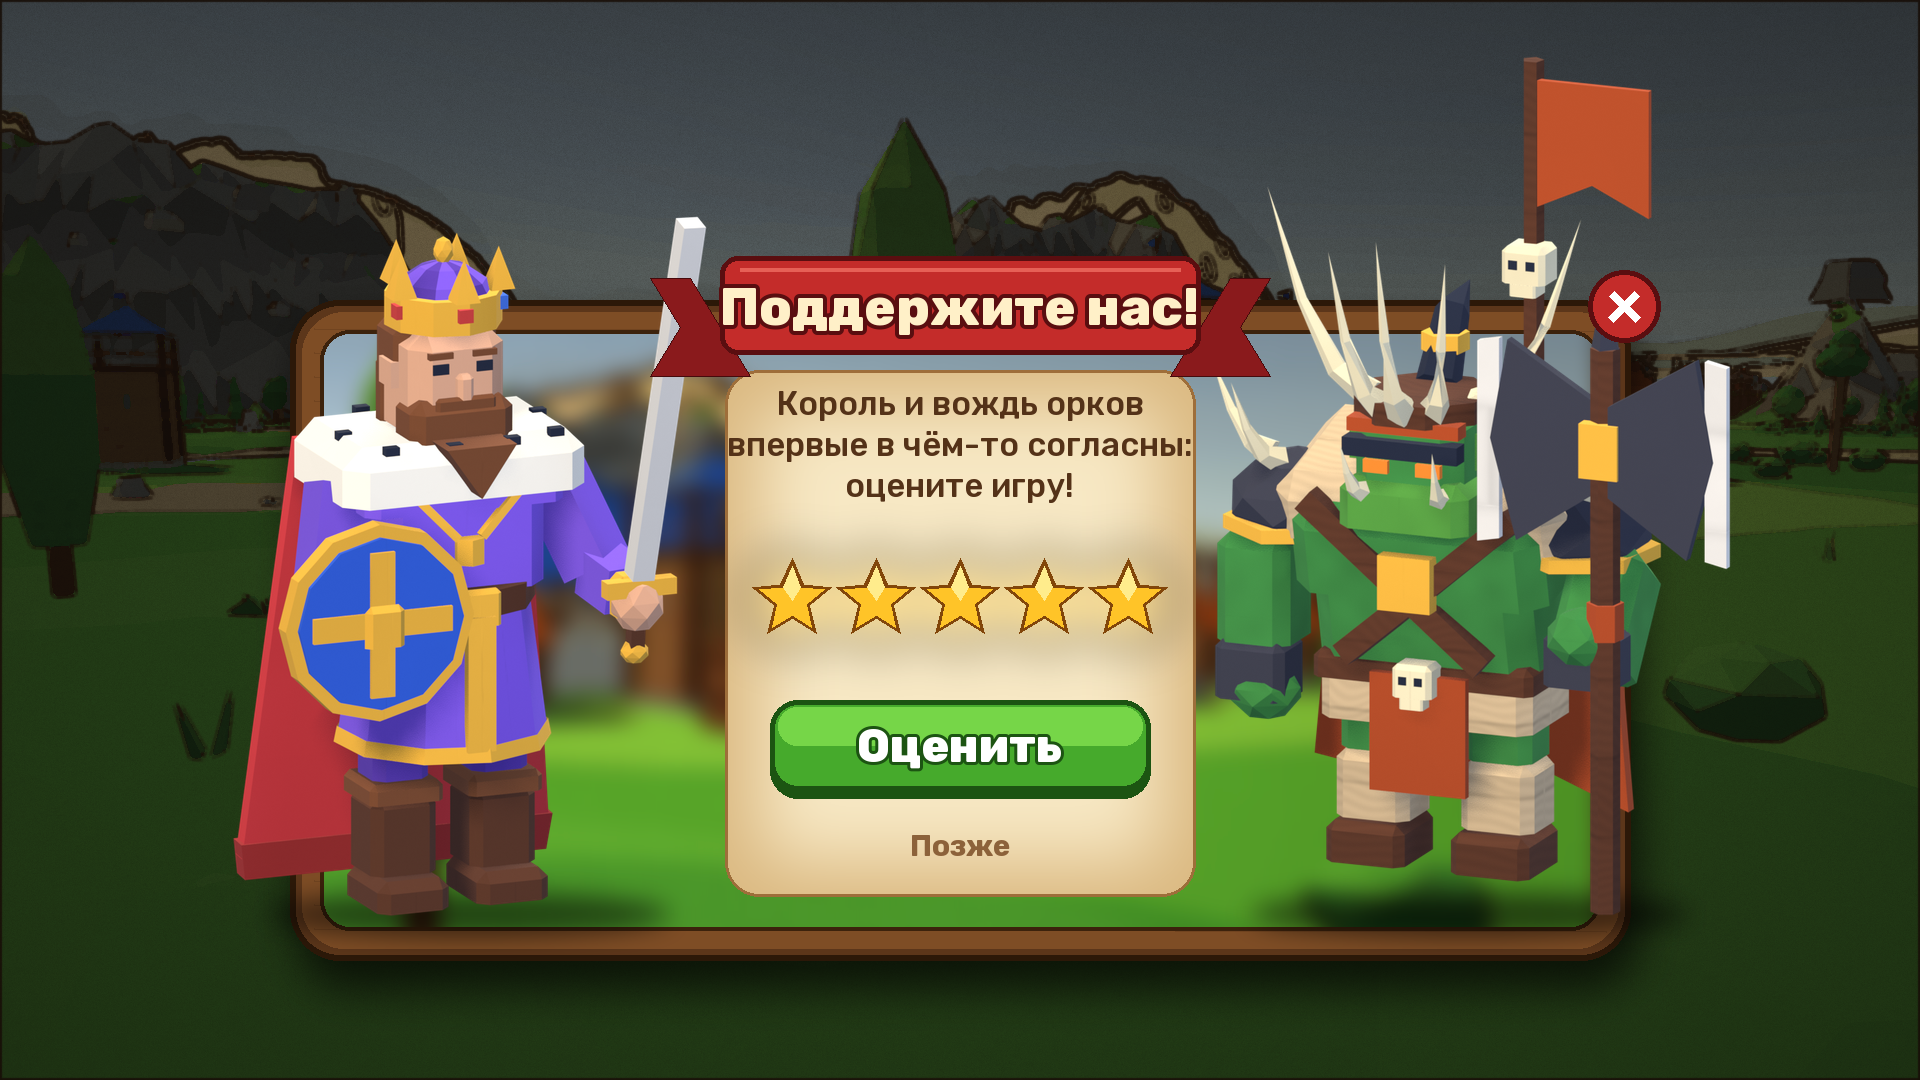
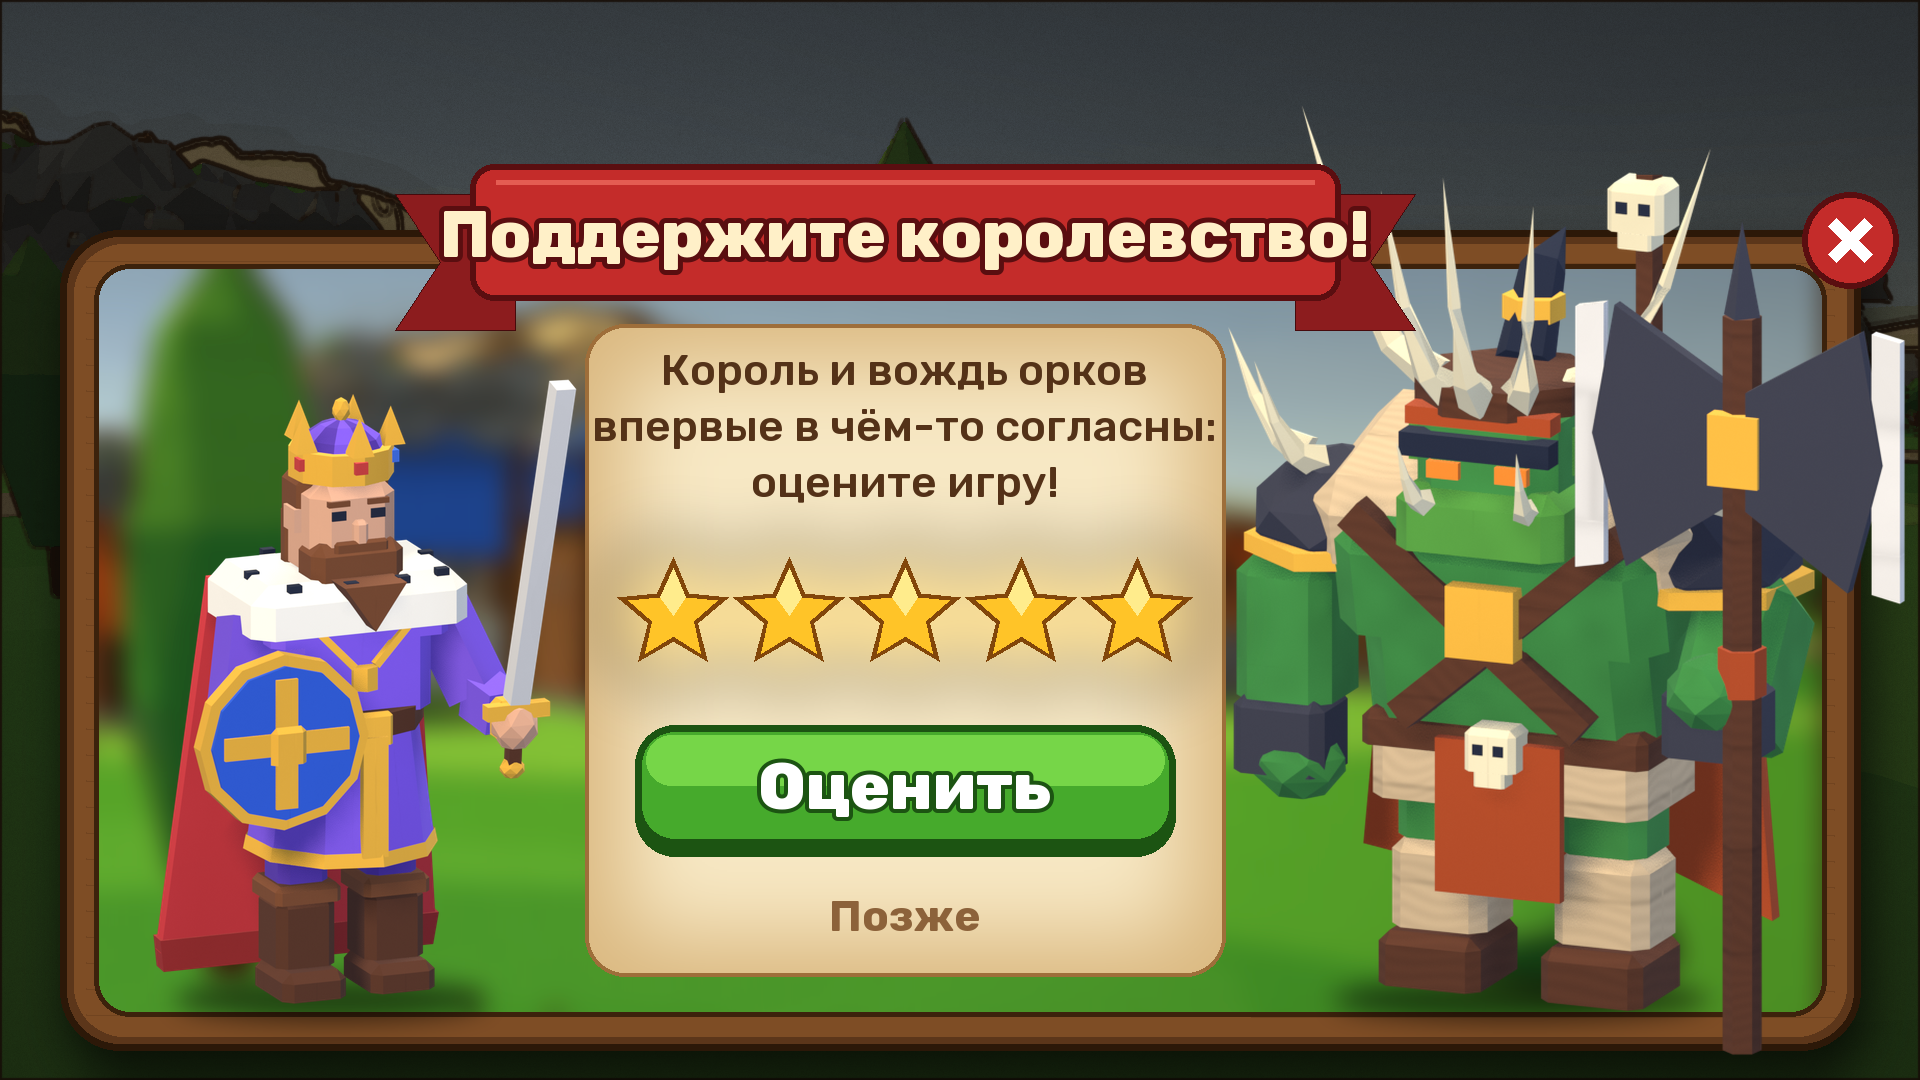
Rate-us window mock-up v3 (the user): 1.5x window, v1 ribbon, the orc a head taller by feet-to-head, four window backgrounds

diff --git a/Tools/store/rate_window_mockup.py b/Tools/store/rate_window_mockup.py
@@ -1,21 +1,23 @@
-"""Mock-up of the rate-us window (the user, 2026-11-10): a POPUP over whatever the game shows (not a
-screen of its own), the game's own King on the left and a big orc chief on the right inside the
-window, a blurred town as the window's picture, a parchment middle with stars and a Rate button.
-Args: a folder holding figure_king.png / figure_orc.png (render_icons_3d.py -- figure_king|figure_orc
-<abs path> 1200); writes RateWindow_Mockup.png there."""
+"""Mock-up of the rate-us window (the user, 2026-11-10): a POPUP over whatever the game shows, the
+game's own King on the left and the orc chief on the right -- a head taller than the king, measured
+feet-to-head (not by his flag or axe) -- a ribbon title over the top edge, a parchment column with
+stars and a Rate button. The window's picture behind the heroes is a choice:
+  town | autumn | sunburst | map
+Args: <folder with figure_king.png / figure_orc.png> <background> [out name]
+(figures: render_icons_3d.py -- figure_king|figure_orc <abs path> 1200)."""
 import math
 import sys
 
 from PIL import Image, ImageDraw, ImageEnhance, ImageFilter, ImageFont
 
-S = sys.argv[1]
+S, BG = sys.argv[1], sys.argv[2]
+OUT = sys.argv[3] if len(sys.argv) > 3 else 'RateWindow_Mockup.png'
 R = 'D:/Fork/CityBuilding/'
 F = R + 'Assets/_Project/Resources/Fonts/'
 W, H = 1920, 1080
-town = Image.open(R + 'Assets/_Project/UI/Loading/Load_summer.png').convert('RGB').resize((W, H))
+game = Image.open(R + 'Assets/_Project/UI/Loading/Load_summer.png').convert('RGB').resize((W, H))
 
-# the game behind, as it is, dimmed by the popup's shade
-img = Image.alpha_composite(town.convert('RGBA'), Image.new('RGBA', (W, H), (10, 8, 6, 150)))
+img = Image.alpha_composite(game.convert('RGBA'), Image.new('RGBA', (W, H), (10, 8, 6, 160)))
 d = ImageDraw.Draw(img)
 
 
@@ -23,7 +25,7 @@ def font(size, name='Rubik-ExtraBold.ttf'):
     return ImageFont.truetype(F + name, size)
 
 
-def text(xy, s, size, fill, name='Rubik-ExtraBold.ttf', stroke=0, sf=None, spacing=8):
+def text(xy, s, size, fill, name='Rubik-ExtraBold.ttf', stroke=0, sf=None, spacing=10):
     d.multiline_text(xy, s, font=font(size, name), fill=fill, anchor='mm', align='center',
                      stroke_width=stroke, stroke_fill=sf, spacing=spacing)
 
@@ -32,73 +34,128 @@ def layer():
     return Image.new('RGBA', (W, H), 0)
 
 
-# ---- the window
-X0, Y0, X1, Y1 = 290, 300, 1630, 960
-sh = layer()
-ImageDraw.Draw(sh).rounded_rectangle((X0 + 8, Y0 + 24, X1 + 8, Y1 + 28), 50, fill=(0, 0, 0, 170))
-img = Image.alpha_composite(img, sh.filter(ImageFilter.GaussianBlur(20)))
-d = ImageDraw.Draw(img)
-d.rounded_rectangle((X0, Y0, X1, Y1), 50, fill=(92, 54, 26), outline=(44, 24, 8), width=6)
-d.rounded_rectangle((X0 + 12, Y0 + 12, X1 - 12, Y1 - 12), 42, fill=(126, 77, 37))
-for y in range(Y0 + 28, Y1 - 20, 24):
-    d.line((X0 + 24, y, X1 - 24, y + 3), fill=(113, 68, 32), width=2)
+def picture(kind, w, h):
+    """The window's own background behind the heroes."""
+    if kind in ('town', 'autumn'):
+        src = 'Load_summer' if kind == 'town' else 'Load_autumn'
+        p = Image.open(R + 'Assets/_Project/UI/Loading/' + src + '.png').convert('RGB')
+        p = p.crop((820, 140, 1920, 760)).resize((w, h)).filter(ImageFilter.GaussianBlur(12))
+        return ImageEnhance.Color(p).enhance(1.15)
+    if kind == 'sunburst':
+        p = Image.new('RGB', (w, h), (255, 196, 92))
+        dd = ImageDraw.Draw(p)
+        cx, cy, rr = w / 2, h * 0.55, max(w, h)
+        for k in range(24):
+            a0, a1 = k * 2 * math.pi / 24, (k + 0.5) * 2 * math.pi / 24
+            dd.polygon([(cx, cy), (cx + rr * math.cos(a0), cy + rr * math.sin(a0)),
+                        (cx + rr * math.cos(a1), cy + rr * math.sin(a1))], fill=(255, 216, 128))
+        g = Image.new('L', (w, h), 0)
+        ImageDraw.Draw(g).ellipse((cx - w * 0.45, cy - h * 0.6, cx + w * 0.45, cy + h * 0.6), fill=255)
+        g = g.filter(ImageFilter.GaussianBlur(160))
+        p = Image.composite(p, Image.new('RGB', (w, h), (214, 120, 52)), g)
+        return p.filter(ImageFilter.GaussianBlur(2))
+    if kind == 'map':
+        p = Image.open(R + 'RunLogs/ink_map_42.png').convert('RGB')
+        return p.crop((0, 70, 500, 430)).resize((w, h), Image.BICUBIC).filter(ImageFilter.GaussianBlur(3))
+    raise SystemExit('background: town | autumn | sunburst | map')
 
-# inside: the blurred town picture, brightest at the sides where the heroes stand
-IX0, IY0, IX1, IY1 = X0 + 30, Y0 + 30, X1 - 30, Y1 - 30
-inner = town.crop((820, 140, 1920, 720)).resize((IX1 - IX0, IY1 - IY0)).filter(ImageFilter.GaussianBlur(10))
-inner = ImageEnhance.Color(inner).enhance(1.15)
+
+# ---- the window, ~1.5x the last one
+X0, Y0, X1, Y1 = 60, 230, 1860, 1050
+sh = layer()
+ImageDraw.Draw(sh).rounded_rectangle((X0 + 8, Y0 + 24, X1 + 8, Y1 + 24), 60, fill=(0, 0, 0, 170))
+img = Image.alpha_composite(img, sh.filter(ImageFilter.GaussianBlur(22)))
+d = ImageDraw.Draw(img)
+d.rounded_rectangle((X0, Y0, X1, Y1), 60, fill=(92, 54, 26), outline=(44, 24, 8), width=7)
+d.rounded_rectangle((X0 + 14, Y0 + 14, X1 - 14, Y1 - 14), 50, fill=(126, 77, 37))
+for y in range(Y0 + 30, Y1 - 20, 26):
+    d.line((X0 + 26, y, X1 - 26, y + 3), fill=(113, 68, 32), width=2)
+IX0, IY0, IX1, IY1 = X0 + 34, Y0 + 34, X1 - 34, Y1 - 34
+inner = picture(BG, IX1 - IX0, IY1 - IY0)
 mask = Image.new('L', inner.size, 0)
-ImageDraw.Draw(mask).rounded_rectangle((0, 0, inner.width - 1, inner.height - 1), 30, fill=255)
+ImageDraw.Draw(mask).rounded_rectangle((0, 0, inner.width - 1, inner.height - 1), 36, fill=255)
 img.paste(inner, (IX0, IY0), mask)
-# the parchment in the middle, soft-edged over the picture
-pw0, pw1 = 725, 1195
+d = ImageDraw.Draw(img)
+d.rounded_rectangle((IX0, IY0, IX1, IY1), 36, outline=(60, 34, 12), width=5)
+
+# the parchment column
+pw0, pw1, pt, pb = 585, 1225, IY0 + 60, IY1 - 40
 parch = layer()
-dp = ImageDraw.Draw(parch)
-dp.rounded_rectangle((pw0, IY0 + 40, pw1, IY1 - 34), 34, fill=(247, 232, 196, 255))
+ImageDraw.Draw(parch).rounded_rectangle((pw0, pt, pw1, pb), 40, fill=(247, 232, 196, 255))
 pm = Image.new('L', (W, H), 0)
-ImageDraw.Draw(pm).rounded_rectangle((pw0 + 34, IY0 + 74, pw1 - 34, IY1 - 68), 20, fill=255)
-pm = pm.filter(ImageFilter.GaussianBlur(34))
+ImageDraw.Draw(pm).rounded_rectangle((pw0 + 40, pt + 40, pw1 - 40, pb - 40), 24, fill=255)
+pm = pm.filter(ImageFilter.GaussianBlur(40))
 edge = Image.new('RGBA', (W, H), (218, 184, 128, 255))
 parch = Image.composite(parch, Image.composite(edge, parch, parch.split()[3]), pm)
 img = Image.alpha_composite(img, parch)
 d = ImageDraw.Draw(img)
-d.rounded_rectangle((pw0, IY0 + 40, pw1, IY1 - 34), 34, outline=(158, 110, 58), width=3)
-d.rounded_rectangle((IX0, IY0, IX1, IY1), 30, outline=(60, 34, 12), width=4)
+d.rounded_rectangle((pw0, pt, pw1, pb), 40, outline=(158, 110, 58), width=4)
 
 
-# ---- the heroes, standing on the window's floor, heads over the frame
-def hero(path, h, x, floor, flip=False):
+# ---- the heroes: scaled by feet-to-head, measured on the renders (pixels of each 900x1200 image)
+KING_FEET, KING_HEAD = 1170, 270     # the top of his head under the crown
+ORC_FEET, ORC_HEAD = 1090, 490       # the top of his head under the helmet's spikes
+KING_BODY = 520                      # on screen
+ORC_BODY = KING_BODY * 1.2           # a head taller
+
+
+def x_mid(a):
+    """The body's middle: the middle of the opaque pixels on the row through the shins."""
+    y = int(a.height * 0.86)
+    row = [x for x in range(a.width) if a.getpixel((x, y))[3] > 128]
+    return (row[0] + row[-1]) / 2 if row else a.width / 2
+
+
+def no_flag(a):
+    """The chief's banner above his skull staff goes (it read as his height); the staff now ends in
+    the skull. Clears the flag's orange and the pole's brown above the skull's top."""
+    px = a.load()
+    for y in range(0, 296):
+        for x in range(480, 680):
+            r, g, b, al = px[x, y]
+            if al and b < 120:
+                px[x, y] = (0, 0, 0, 0)
+    return a
+
+
+def hero(path, body, feet, head, x, floor, prep=None, mid=None):
+    """x = where his body's middle stands on screen."""
     global img
-    a = Image.open(path)
-    a = a.crop(a.getbbox())
-    a = a.resize((int(a.width * h / a.height), h), Image.LANCZOS)
-    if flip:
-        a = a.transpose(Image.FLIP_LEFT_RIGHT)
+    a = Image.open(path).convert('RGBA')
+    if prep:
+        a = prep(a)
+    k = body / (feet - head)
+    bb = a.getbbox()
+    mx = mid if mid is not None else x_mid(a)
+    a = a.crop(bb)
+    a = a.resize((round(a.width * k), round(a.height * k)), Image.LANCZOS)
+    left = round(x - (mx - bb[0]) * k)
+    top = round(floor - (feet - bb[1]) * k)
     e = layer()
-    ImageDraw.Draw(e).ellipse((x - a.width * 0.42, floor - 24, x + a.width * 0.42, floor + 20), fill=(0, 0, 0, 140))
+    ImageDraw.Draw(e).ellipse((x - body * 0.3, floor - 22, x + body * 0.3, floor + 20), fill=(0, 0, 0, 140))
     img = Image.alpha_composite(img, e.filter(ImageFilter.GaussianBlur(12)))
-    img.alpha_composite(a, (x - a.width // 2, floor - a.height))
+    img.alpha_composite(a, (left, top))
+    return left, top, left + a.width
 
 
-FLOOR = IY1 - 14
-hero(S + '/figure_king.png', 700, 470, FLOOR)
-hero(S + '/figure_orc.png', 860, 1470, FLOOR)   # the chief: a head taller than the king
+FLOOR = IY1 - 16
+print('king', hero(S + '/figure_king.png', KING_BODY, KING_FEET, KING_HEAD, 330, FLOOR, mid=390))
+print('orc', hero(S + '/figure_orc.png', ORC_BODY, ORC_FEET, ORC_HEAD, 1520, FLOOR, no_flag, mid=390))
 d = ImageDraw.Draw(img)
 
-# ---- the title ribbon over the top edge
-rx0, rx1, ry0, ry1 = 720, 1200, Y0 - 44, Y0 + 54
-for side in (-1, 1):
-    bx = rx0 if side < 0 else rx1
-    tail = [(bx - side * 0 + side * -30 * -1, ry0 + 22), (bx + side * 70, ry0 + 22), (bx + side * 40, (ry0 + ry1) / 2 + 22),
-            (bx + side * 70, ry1 + 22), (bx - side * -30 * -1, ry1 + 22)]
-    d.polygon(tail, fill=(138, 26, 28), outline=(70, 10, 12))
-d.rounded_rectangle((rx0, ry0, rx1, ry1), 18, fill=(196, 44, 42), outline=(90, 14, 16), width=5)
-d.line((rx0 + 20, ry0 + 13, rx1 - 20, ry0 + 13), fill=(230, 96, 86), width=4)
-text(((rx0 + rx1) / 2, (ry0 + ry1) / 2 + 2), 'Поддержите нас!', 52, (255, 240, 200), stroke=4, sf=(90, 14, 16))
+# ---- the ribbon, as in the first mock-up: a wide band with folded tails behind both ends
+rx0, rx1, ry0, ry1 = 470, 1340, Y0 - 66, Y0 + 70
+my = (ry0 + ry1) / 2 + 30
+for side, bx in ((-1, rx0), (1, rx1)):
+    d.polygon([(bx + side * 75, ry0 + 30), (bx - side * 45, ry0 + 30), (bx - side * 45, ry1 + 30),
+               (bx + side * 75, ry1 + 30), (bx + side * 30, my)], fill=(140, 28, 30), outline=(70, 10, 12))
+d.rounded_rectangle((rx0, ry0, rx1, ry1), 24, fill=(196, 44, 42), outline=(90, 14, 16), width=6)
+d.line((rx0 + 26, ry0 + 18, rx1 - 26, ry0 + 18), fill=(228, 92, 82), width=5)
+text(((rx0 + rx1) / 2, (ry0 + ry1) / 2 + 2), 'Поддержите королевство!', 66, (255, 240, 200), stroke=5, sf=(90, 14, 16))
 
-# ---- the words, the stars, the buttons
+# ---- words, stars, buttons (1.5x)
 CX = (pw0 + pw1) / 2
-text((CX, 445), 'Король и вождь орков\nвпервые в чём-то согласны:\nоцените игру!', 33, (84, 50, 24), 'Rubik-Medium.ttf', spacing=10)
+text((CX, 425), 'Король и вождь орков\nвпервые в чём-то согласны:\nоцените игру!', 44, (84, 50, 24), 'Rubik-Medium.ttf', spacing=14)
 
 
 def star(cx, cy, r, fill, out):
@@ -106,36 +163,37 @@ def star(cx, cy, r, fill, out):
         return [(cx + (rr if k % 2 == 0 else rr * 0.45) * math.sin(k * math.pi / 5),
                  cy - (rr if k % 2 == 0 else rr * 0.45) * math.cos(k * math.pi / 5)) for k in range(10)]
     d.polygon(pts(r), fill=out)
-    p2 = pts(r - 8)
+    p2 = pts(r - 11)
     d.polygon(p2, fill=fill)
     d.polygon([p2[9], p2[0], p2[1], (cx, cy)], fill=(255, 236, 140))
 
 
+SY, SP, SR = 615, 116, 58
 glow = layer()
 dg = ImageDraw.Draw(glow)
 for k in range(5):
-    dg.ellipse((CX + (k - 2) * 84 - 48, 600 - 48, CX + (k - 2) * 84 + 48, 600 + 48), fill=(255, 210, 90, 110))
-img = Image.alpha_composite(img, glow.filter(ImageFilter.GaussianBlur(22)))
+    dg.ellipse((CX + (k - 2) * SP - 72, SY - 72, CX + (k - 2) * SP + 72, SY + 72), fill=(255, 210, 90, 110))
+img = Image.alpha_composite(img, glow.filter(ImageFilter.GaussianBlur(30)))
 d = ImageDraw.Draw(img)
 for k in range(5):
-    star(CX + (k - 2) * 84, 600, 42, (255, 196, 40), (130, 70, 10))
+    star(CX + (k - 2) * SP, SY, SR, (255, 196, 40), (130, 70, 10))
 
 
 def button(box, label, top, bot, out, size):
     x0, y0, x1, y1 = box
-    d.rounded_rectangle((x0, y0 + 8, x1, y1 + 8), 28, fill=out)
-    d.rounded_rectangle(box, 28, fill=bot, outline=out, width=5)
-    d.rounded_rectangle((x0 + 8, y0 + 7, x1 - 8, (y0 + y1) / 2), 20, fill=top)
-    text(((x0 + x1) / 2, (y0 + y1) / 2 + 1), label, size, (255, 255, 255), stroke=3, sf=out)
+    d.rounded_rectangle((x0, y0 + 11, x1, y1 + 11), 40, fill=out)
+    d.rounded_rectangle(box, 40, fill=bot, outline=out, width=7)
+    d.rounded_rectangle((x0 + 11, y0 + 10, x1 - 11, (y0 + y1) / 2), 30, fill=top)
+    text(((x0 + x1) / 2, (y0 + y1) / 2 + 1), label, size, (255, 255, 255), stroke=4, sf=out)
 
 
-button((CX - 190, 700, CX + 190, 790), 'Оценить', (118, 214, 72), (70, 170, 44), (28, 84, 18), 46)
-text((CX, 845), 'Позже', 30, (140, 98, 58), 'Rubik-Bold.ttf')
+button((CX - 270, 725, CX + 270, 845), 'Оценить', (118, 214, 72), (70, 170, 44), (28, 84, 18), 66)
+text((CX, 915), 'Позже', 44, (140, 98, 58), 'Rubik-Bold.ttf')
 
 # ---- close
-cx, cy = X1 - 6, Y0 + 6
-d.ellipse((cx - 36, cy - 36, cx + 36, cy + 36), fill=(196, 44, 42), outline=(90, 14, 16), width=5)
-d.line((cx - 13, cy - 13, cx + 13, cy + 13), fill='white', width=8)
-d.line((cx - 13, cy + 13, cx + 13, cy - 13), fill='white', width=8)
+cx, cy = X1 - 10, Y0 + 10
+d.ellipse((cx - 48, cy - 48, cx + 48, cy + 48), fill=(196, 44, 42), outline=(90, 14, 16), width=6)
+d.line((cx - 18, cy - 18, cx + 18, cy + 18), fill='white', width=11)
+d.line((cx - 18, cy + 18, cx + 18, cy - 18), fill='white', width=11)
 
-img.convert('RGB').save(S + '/RateWindow_Mockup.png')
+img.convert('RGB').save(S + '/' + OUT)

diff --git a/Design/features/store-listing.md b/Design/features/store-listing.md
@@ -46,10 +46,15 @@ user) and as a 3D render from the game's models; waiting for the user's correcti
   of its own); the King and the orc chief stand either side and ask to support the project with a
   rating; the King is the GAME'S OWN HeroKing model (the user rejected the icon's retouched king:
   "a model we use nowhere"); the orc chief is BIG, a head taller than the king.
-- Mock-up v2: `Design/store/RateWindow_Mockup.png` by `Tools/store/rate_window_mockup.py <folder>`:
-  the game dimmed behind (Load_summer stands in for the game), a wood-framed window whose picture is a
-  blurred town, the heroes standing on the window floor with heads over the frame, a parchment column
-  in the middle (ribbon «Поддержите нас!», text, 5 stars, green «Оценить», «Позже», close X).
+- Mock-up v3: `Design/store/RateWindow_Mockup.png` (+ `RateWindow_Backgrounds.png`: the window's picture
+  A blurred summer town / B blurred autumn town / C sunburst rays / D the painted chart -- the user to pick)
+  by `Tools/store/rate_window_mockup.py <folder> <town|autumn|sunburst|map> [out]`. The user's v3 notes:
+  the window 1.5x bigger (now 1800x820 of a 1920x1080 screen); the ribbon title as in v1 (a wide band
+  with folded tails behind both ends, «Поддержите королевство!»); the orc chief's height is measured
+  FEET TO HEAD, never by his flag or axe top: he is a head taller than the king (body 1.2x). The
+  scale comes from measured pixels on the renders (king feet 1170 / head top under the crown 270, orc
+  feet 1090 / head top under the spikes 490 in the 900x1200 figures). His banner above the skull staff
+  is erased in the mock-up (`no_flag`), so the staff ends in the skull.
   Heroes from `render_icons_3d.py -- figure_king|figure_orc <abs out> 1200` (whole figure,
   transparent, ortho camera fitted to bounds; figure_king = plain HeroKing, no retouch).
   In the game the heroes would be pre-rendered sprites (cheap on mobile), not live 3D.
